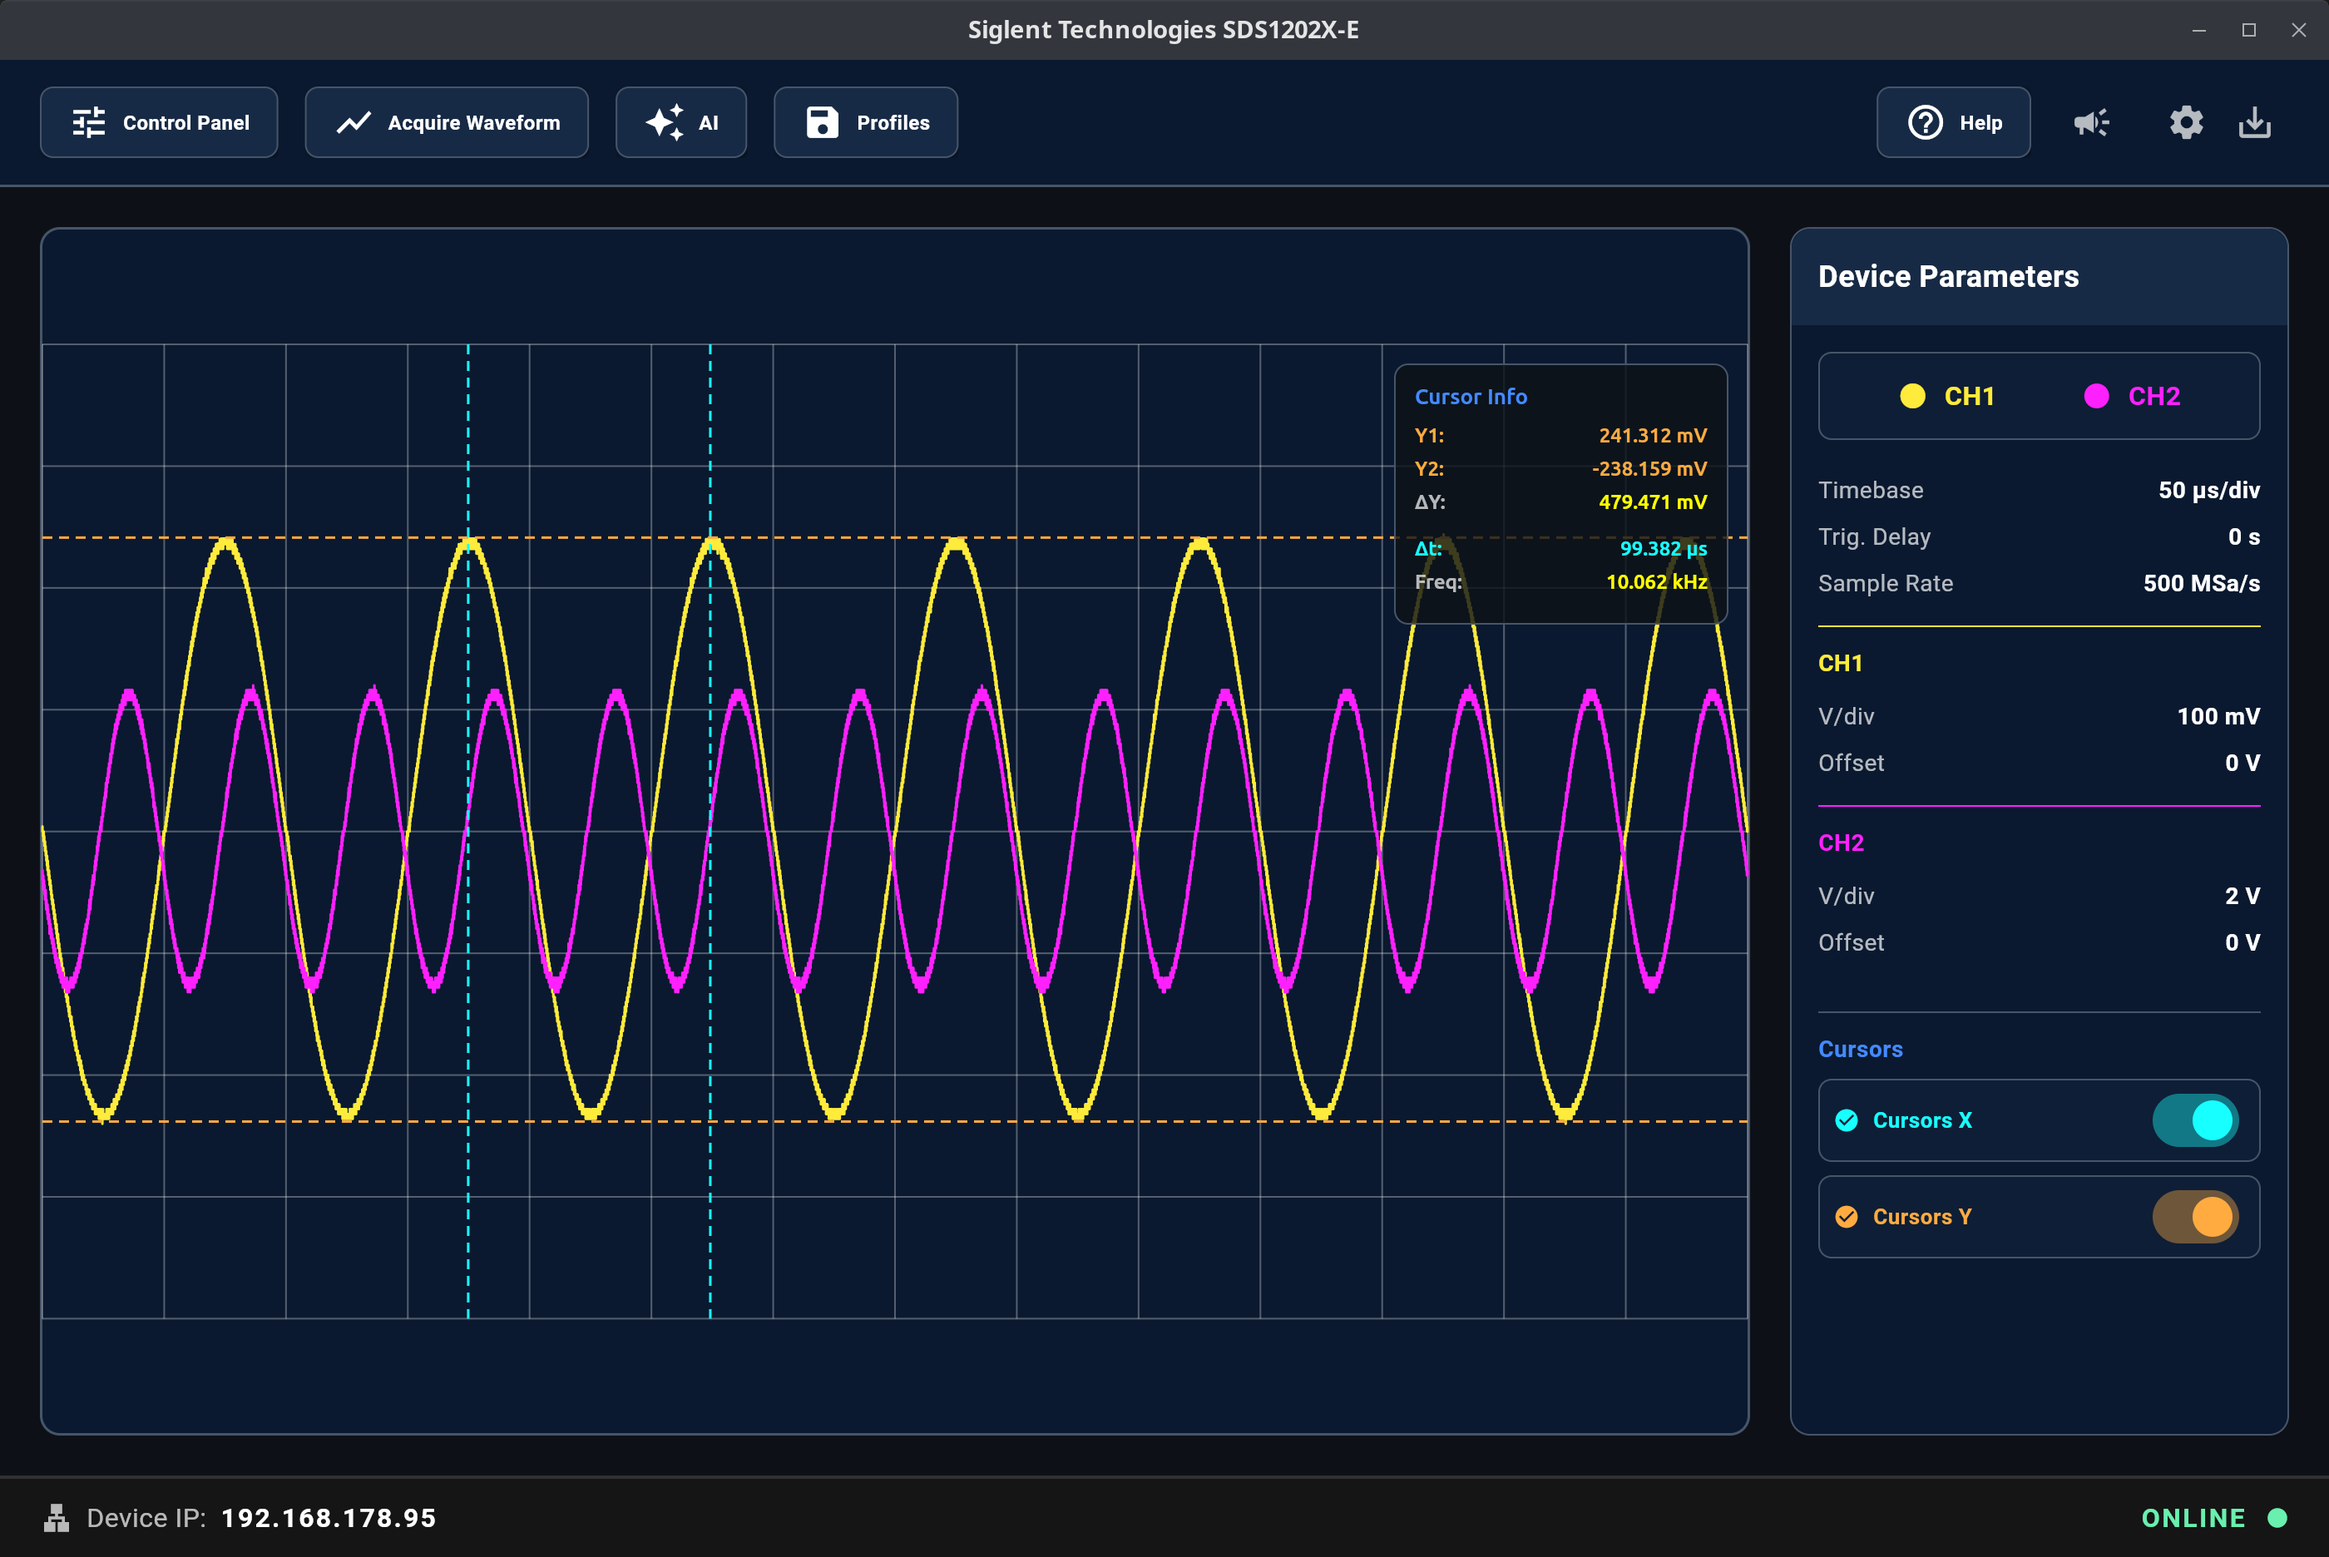
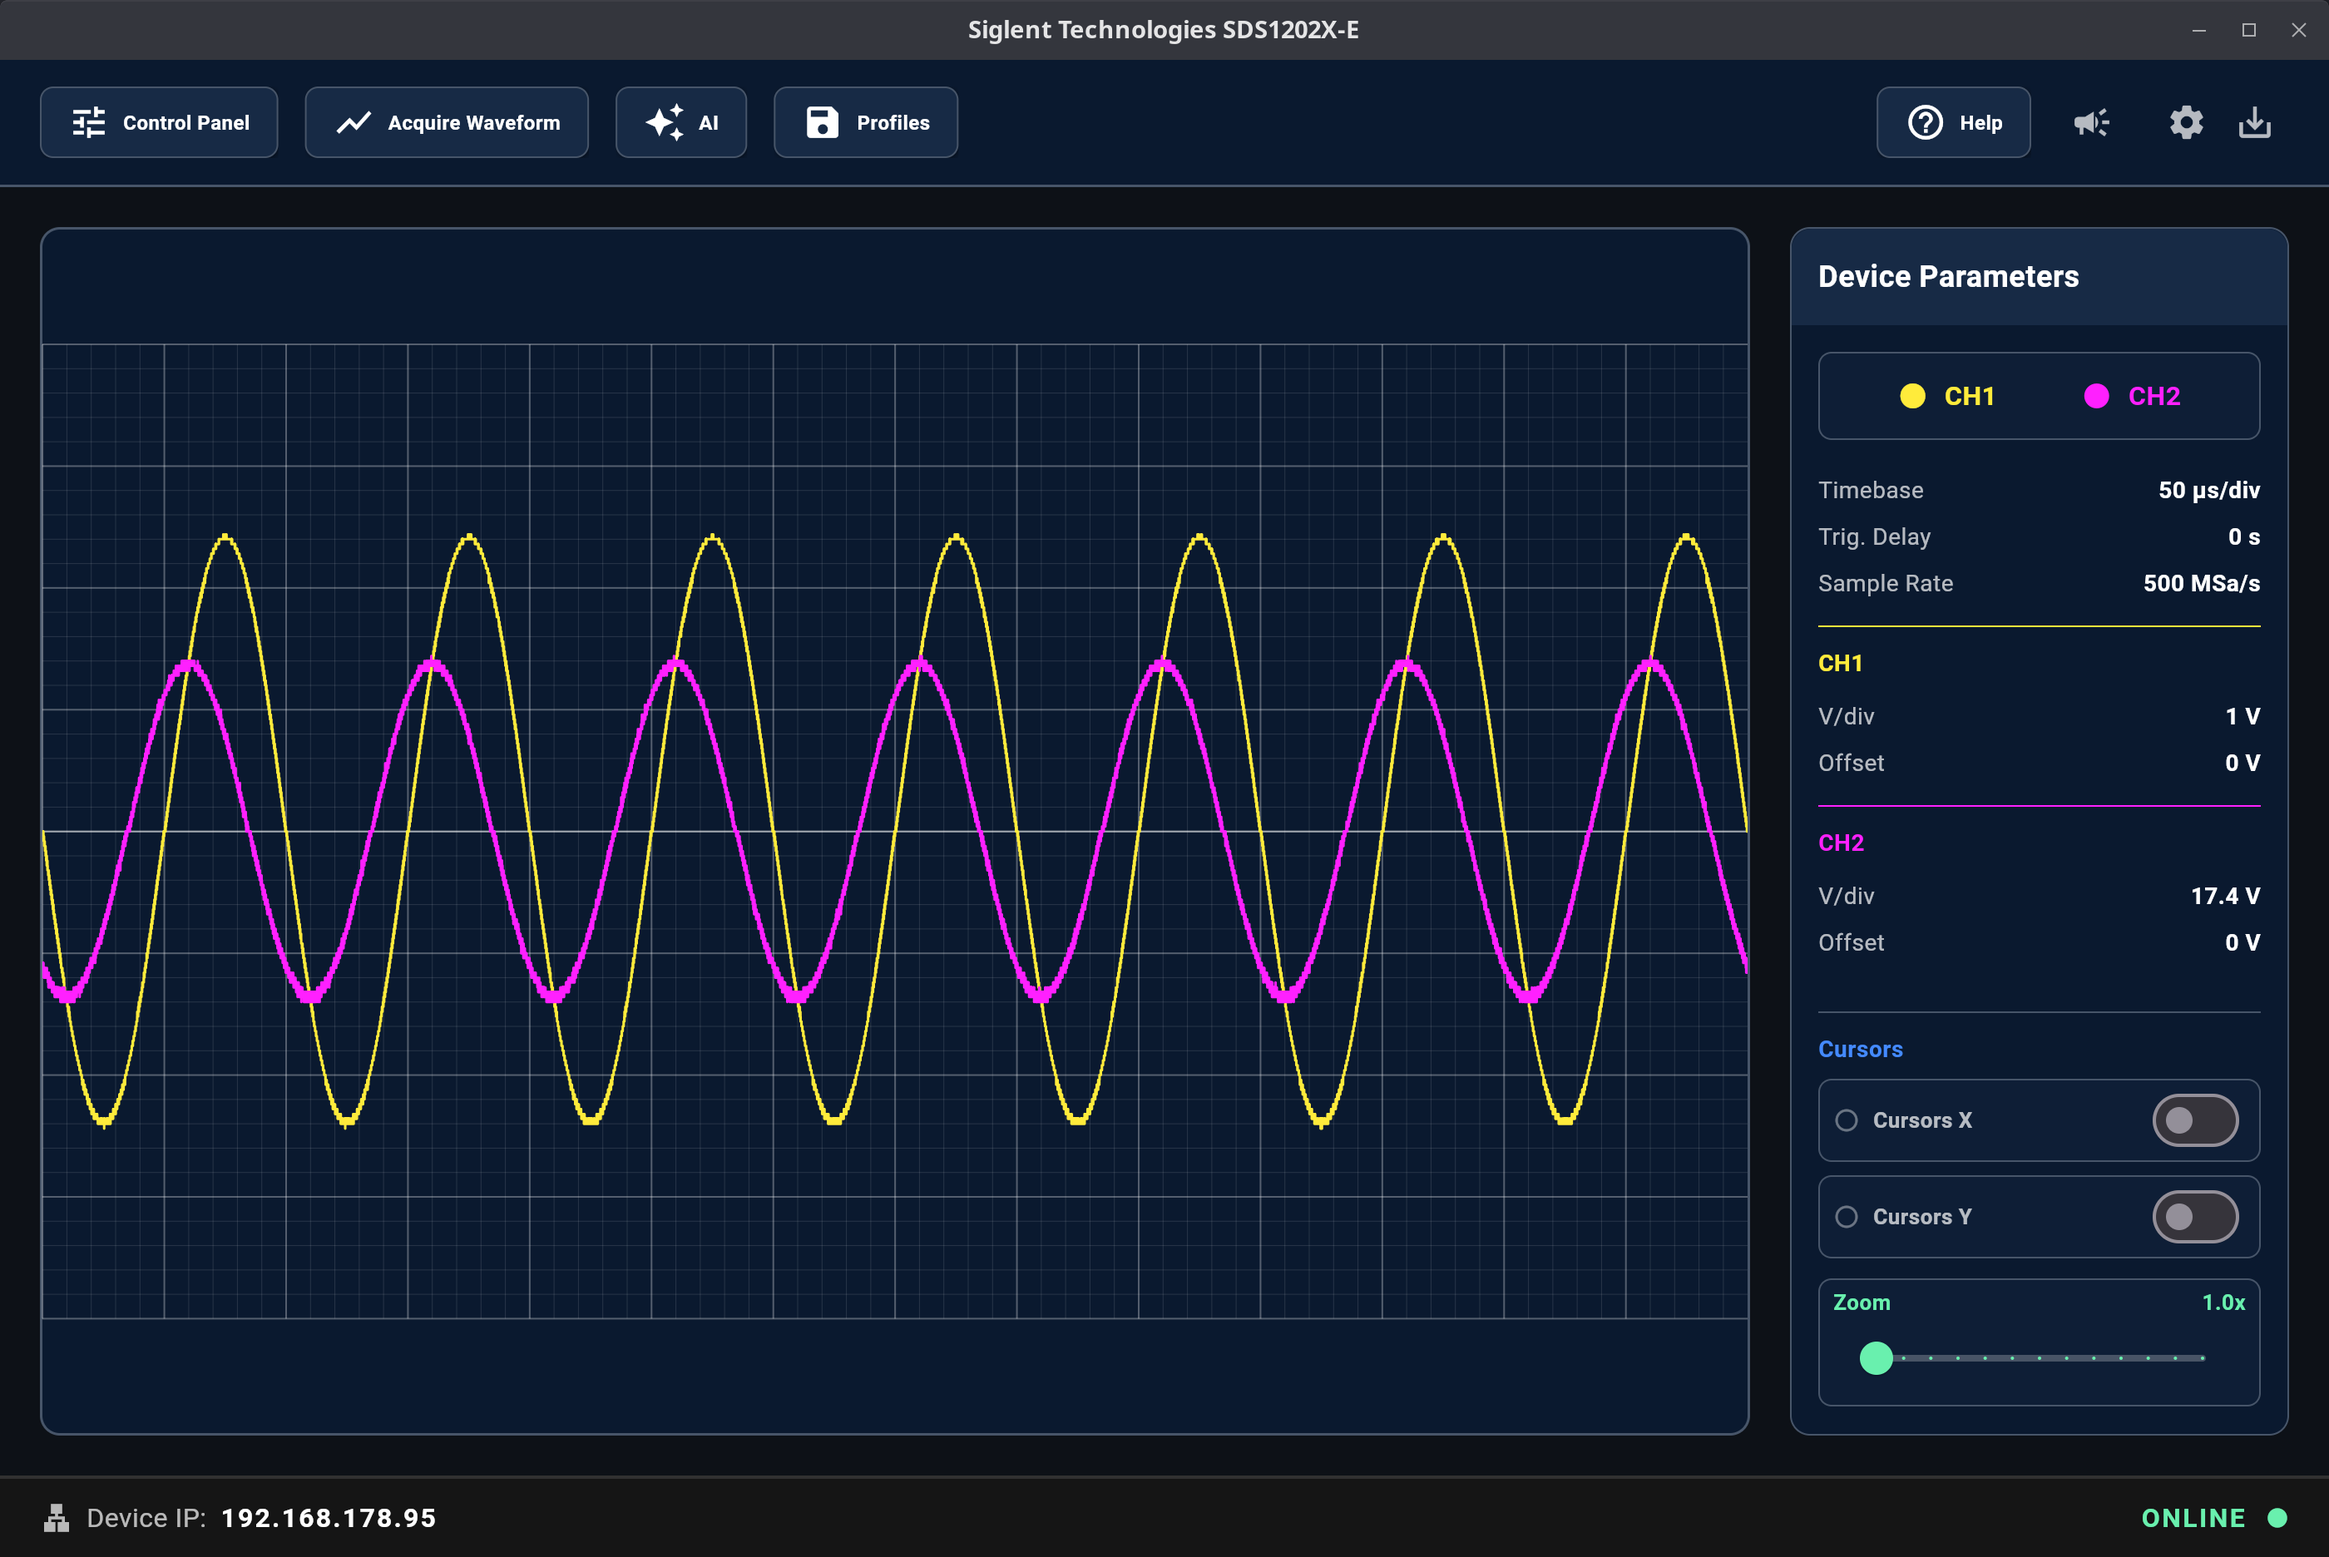
chore: update version to 0.2.1 and adjust installation instructions in README

diff --git a/lib/main.dart b/lib/main.dart
@@ -594,7 +594,7 @@ class _OsciHomePageState extends State<OsciHomePage> with WindowListener {
                                       ),
                                       const SizedBox(height: 16),
                                       Text(
-                                        "Version 0.2.0",
+                                        "Version 0.2.1",
                                         style: TextStyle(
                                           color: Colors.white.withValues(
                                             alpha: 0.4,

diff --git a/README.md b/README.md
@@ -34,10 +34,10 @@ Remote control and AI enhanced operation of Siglent SDS1202X-E, SDS1104X-E, SDS1
 
 ### 2.1 Linux Debian .deb Package
 
-To install the pre-compiled Debian `.deb` package on Debian-based Linux distributions(e.g Ubuntu 24.04 or newer), download the [latest package](https://github.com/klumw/sdsremote/releases/download/0.2.0/sdsremote_0.2.0_amd64.deb) from the releases page and run the following command in your terminal:
+To install the pre-compiled Debian `.deb` package on Debian-based Linux distributions(e.g Ubuntu 24.04 or newer), download the [latest package](https://github.com/klumw/sdsremote/releases) from the releases page and run the following command in your terminal:
 
 ```bash
-sudo apt install ./sdsremote_0.2.0_amd64.deb
+sudo apt install ./sdsremote_[version]_amd64.deb
 ```
 
 Or double click the .deb file and follow the installation instructions.
@@ -48,7 +48,7 @@ Once installed, you can launch the application from your desktop environment's a
 
 ### 2.2 Windows MSI Installer
 
-For installation on Windows use the MSI installer [sdsremote_0.2.0.exe](https://github.com/klumw/sdsremote/releases/download/0.2.0/sdsremote_0.2.0.exe)
+For installation on Windows use the MSI installer [sdsremote_[version].exe](https://github.com/klumw/sdsremote/releases)
 
 ---
 
@@ -127,6 +127,7 @@ Choose the instructions for your target platform:
 The AI chat feature supports the following providers:
 
 ---
+
 | Provider |
 |------|
 | DeepSeek |
@@ -154,6 +155,7 @@ Here's a list of LLMs that are proven to work with the application:
 This software is released under the terms and conditions of the [Apache 2.0 License](https://www.apache.org/licenses/LICENSE-2.0.html).
 
 **Feedback and Support**  
+
 - Review the in-app help manual for detailed troubleshooting.
 - Check the application logs at `/tmp/sds/logging/sds.log` (Linux) or `%TEMP%\sds\logging\sds.log` (Windows).
 - Submit issues or feature requests via the [sdsremote GitHub repository Issues section](https://github.com/klumw/sdsremote/issues).
